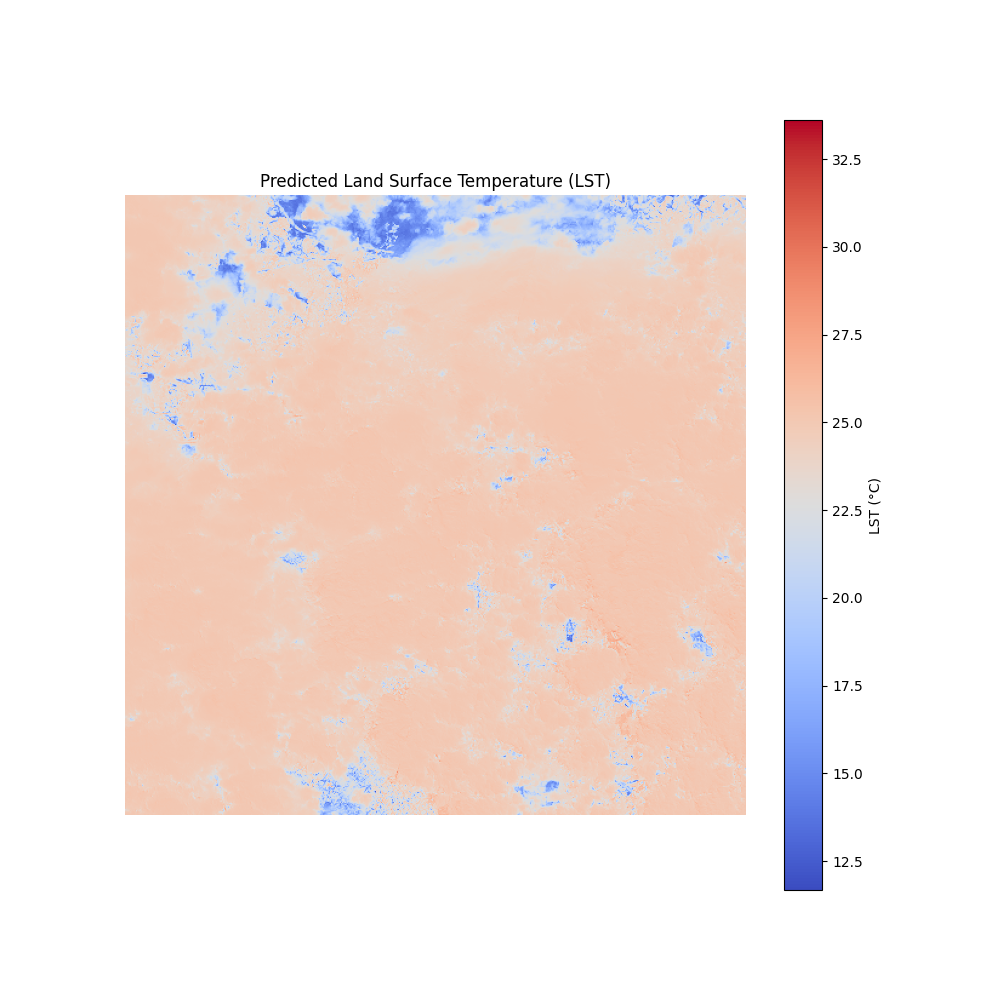
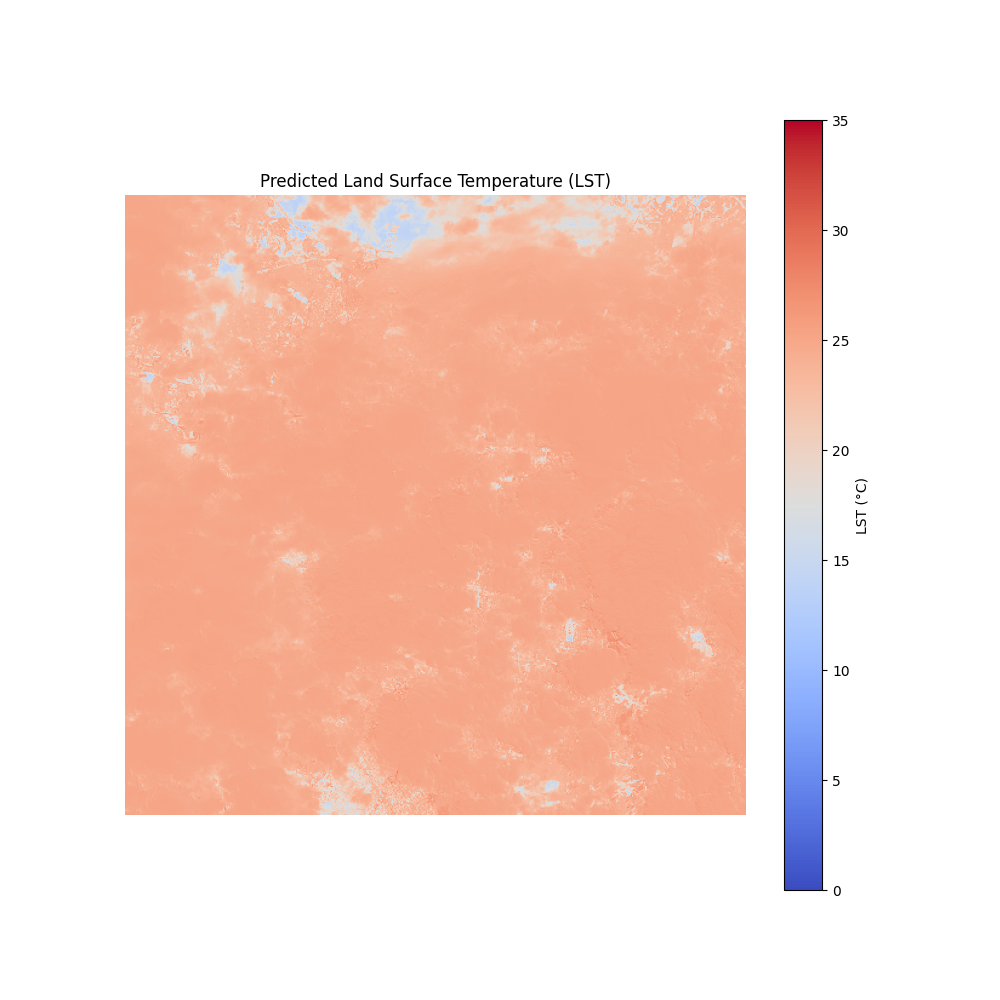
minor changes

diff --git a/tiff_viewer.py b/tiff_viewer.py
@@ -24,9 +24,11 @@ def visualize_tiff(file_path, save_dir):
         
         if 'NDVI' in basename:
             plt.imshow(data, cmap=cmap, vmin=-1, vmax=1)
+        elif 'LST' in basename:
+            plt.imshow(data, cmap=cmap, vmin=0, vmax=35)
         else:
             plt.imshow(data, cmap=cmap)
-        
+
         plt.colorbar()
         plt.title(os.path.basename(file_path))
         plt.axis('off')

diff --git a/testmodel.py b/testmodel.py
@@ -72,7 +72,7 @@ def visualize_predicted_lst(lst_pred, save_dir, filename):
     Visualize the predicted LST and save the plot as a .png file.
     """
     plt.figure(figsize=(10, 10))
-    plt.imshow(lst_pred, cmap='coolwarm')
+    plt.imshow(lst_pred, cmap='coolwarm', vmin=0, vmax=35)
     plt.colorbar(label='LST (°C)')
     plt.title('Predicted Land Surface Temperature (LST)')
     plt.axis('off')
